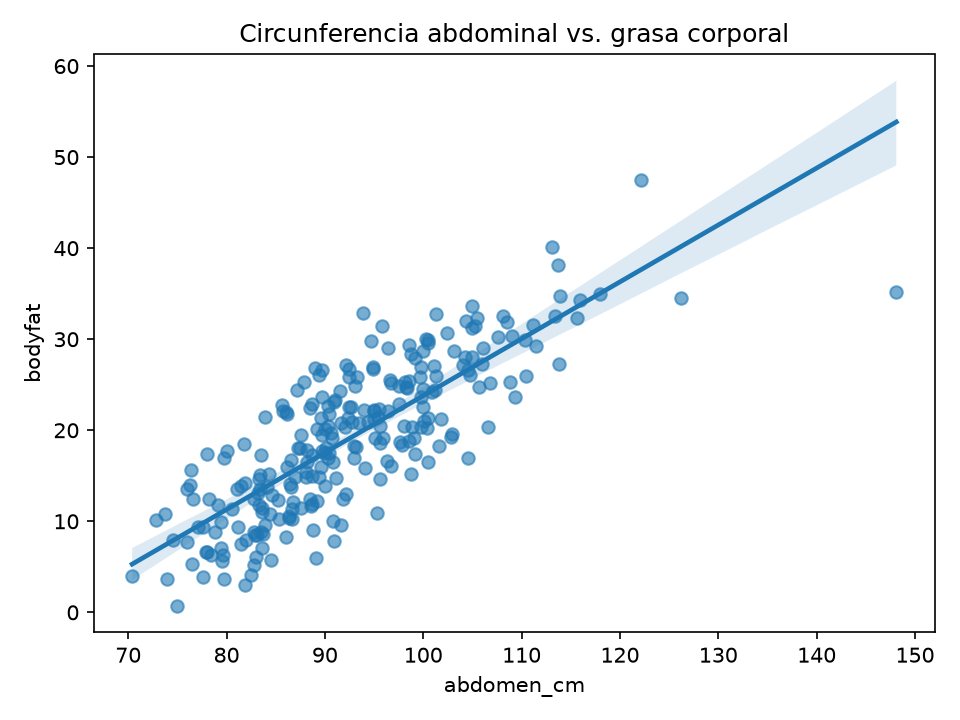
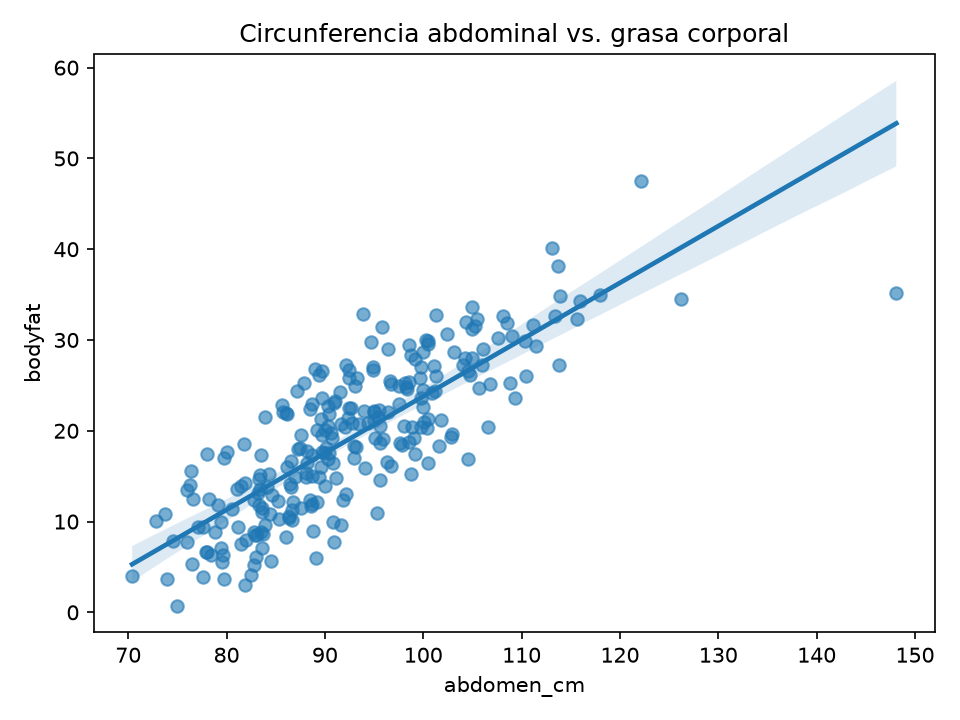
fix(ml): pureza, margen del aviso, tipos laxos y textos probados; correcciones de la verificación independiente
- fixture de entrenar() que prohíbe escribir (figuras, artefacto, joblib)
- margen del 5 % y tipos laxos por campo con valores literales (08, 03)
- 09: validador de fecha sin código inalcanzable; 03: elegibles() también en el notebook y analisis.md sin ambigüedad
- 08: regplot con semilla (la figura era no determinista); CLAUDE.md y SPEC corregidos

diff --git a/backend/features/modelo_08_grasa_corporal/test_modelo.py b/backend/features/modelo_08_grasa_corporal/test_modelo.py
@@ -2,6 +2,7 @@
 import shutil
 
 import joblib
+import matplotlib.pyplot as plt
 import numpy as np
 import pandas as pd
 import pytest
@@ -32,8 +33,16 @@ entrenado = pytest.mark.skipif(not REGISTRO["grasa_corporal"].entrenado,
 
 @pytest.fixture(scope="module")
 def reentrenado():
-    """Todo el entrenamiento (selección, evaluación, experimento de la fuga) en memoria, sin escribir nada."""
-    return entrenar(limpiar(cargar_datos(), imprimir=False), figuras=None, imprimir=False)
+    """Todo el entrenamiento en memoria. Se prohíbe escribir: guardar figuras, el artefacto o cualquier archivo hace fallar la prueba."""
+    def prohibido(*a, **k):
+        raise AssertionError("entrenar() no debe escribir en disco")
+    with pytest.MonkeyPatch.context() as mp:
+        mp.setattr(train, "guardar_figura", prohibido)
+        mp.setattr(train, "guardar_modelo", prohibido)
+        mp.setattr(plt, "savefig", prohibido)
+        mp.setattr(joblib, "dump", prohibido)
+        resultado = entrenar(limpiar(cargar_datos(), imprimir=False), figuras=None, imprimir=False)
+    return resultado  # el parche solo vale durante el entrenamiento: otras pruebas sí escriben (main)
 
 
 @entrenado
@@ -165,6 +174,16 @@ def test_tipos_laxos_y_campos_desconocidos_dan_422(cliente, assert_error, cambio
 
 
 @pytest.mark.parametrize("campo", list(LIMITES))
+def test_cada_campo_rechaza_cadenas_y_booleanos_por_ser_estricto(cliente, assert_error, campo):
+    assert_error(cliente.post(URL, json={**ENTRADA, campo: str(ENTRADA[campo])}), 422, "VALIDACION")
+    assert_error(cliente.post(URL, json={**ENTRADA, campo: True}), 422, "VALIDACION")
+
+
+def test_la_edad_exige_un_entero_aunque_venga_como_45_0(cliente, assert_error):
+    assert_error(cliente.post(URL, json={**ENTRADA, "age": 45.0}), 422, "VALIDACION")
+
+
+@pytest.mark.parametrize("campo", list(LIMITES))
 def test_el_limite_de_cada_campo_es_inclusivo_y_rechaza_lo_que_lo_excede(campo):
     minimo, maximo = LIMITES[campo]
     tipo = int if campo == "age" else float
@@ -222,11 +241,24 @@ def test_una_sola_medida_fuera_del_rango_basta_para_avisar(cliente):
 
 
 @entrenado
+@pytest.mark.parametrize("campo", ["weight_kg", "abdomen_cm", "chest_cm"])
+def test_el_margen_del_aviso_es_el_5_por_ciento_del_rango(cliente, campo):
+    """4 % por encima del máximo de entrenamiento no avisa; 6 % sí (valores literales, no leídos del código)."""
+    minimo, maximo = cargar_artefacto(CARPETA, "grasa_corporal")["rango"][campo]
+    ancho = maximo - minimo
+    assert maximo + 0.06 * ancho < LIMITES[campo][1], "el caso debe ser una entrada válida"
+    sin_aviso = cliente.post(URL, json={**ENTRADA, campo: maximo + 0.04 * ancho}).json()["texto"]
+    con_aviso = cliente.post(URL, json={**ENTRADA, campo: maximo + 0.06 * ancho}).json()["texto"]
+    assert "poco confiable" not in sin_aviso and "Atención: alguna medida está fuera del rango de los datos de entrenamiento" in con_aviso
+
+
+@entrenado
 def test_la_respuesta_redondea_a_un_decimal_y_no_modifica_la_entrada(cliente):
     cuerpo = cliente.post(URL, json=ENTRADA).json()
     assert cuerpo["prediccion"] == round(cuerpo["prediccion"], 1)
     crudo, _ = predecir_con_pipeline(CARPETA, "grasa_corporal", ENTRADA)
     assert cuerpo["prediccion"] == round(max(crudo, 0.0), 1) and str(cuerpo["prediccion"]) in cuerpo["texto"]
+    assert f"el porcentaje de grasa corporal estimado es {cuerpo['prediccion']} por ciento" in cuerpo["texto"]
     assert "hombres adultos" in cuerpo["texto"] and "orientativa" in cuerpo["texto"]
 
 

diff --git a/backend/features/modelo_03_vino/test_modelo.py b/backend/features/modelo_03_vino/test_modelo.py
@@ -2,6 +2,7 @@
 import shutil
 
 import joblib
+import matplotlib.pyplot as plt
 import numpy as np
 import pandas as pd
 import pytest
@@ -30,8 +31,16 @@ entrenado = pytest.mark.skipif(not REGISTRO["vino"].entrenado, reason="ejecutar 
 
 @pytest.fixture(scope="module")
 def reentrenado():
-    """Todo el entrenamiento (selección, evaluación, experimento de duplicados) en memoria, sin escribir nada."""
-    return entrenar(cargar_datos(quitar_duplicados=False), figuras=None, imprimir=False)
+    """Todo el entrenamiento en memoria. Se prohíbe escribir: guardar figuras, el artefacto o cualquier archivo hace fallar la prueba."""
+    def prohibido(*a, **k):
+        raise AssertionError("entrenar() no debe escribir en disco")
+    with pytest.MonkeyPatch.context() as mp:
+        mp.setattr(train, "guardar_figura", prohibido)
+        mp.setattr(train, "guardar_modelo", prohibido)
+        mp.setattr(plt, "savefig", prohibido)
+        mp.setattr(joblib, "dump", prohibido)
+        resultado = entrenar(cargar_datos(quitar_duplicados=False), figuras=None, imprimir=False)
+    return resultado  # el parche solo vale durante el entrenamiento: otras pruebas sí escriben (main)
 
 
 def probabilidades(fila: dict) -> dict:
@@ -357,6 +366,24 @@ def test_el_aviso_de_extrapolacion_se_dispara_con_una_sola_medida_fuera_del_rang
         lejos = min(maximo + (maximo - minimo) * 0.2, LIMITES[campo][1])
         assert "poco confiable" in cliente.post(URL, json={**ENTRADA, campo: lejos}).json()["texto"], campo
         assert "poco confiable" not in cliente.post(URL, json={**ENTRADA, campo: min(max(ENTRADA[campo], minimo), maximo)}).json()["texto"], campo
+
+
+@entrenado
+@pytest.mark.parametrize("campo", ["alcohol", "residual_sugar", "chlorides"])
+def test_el_margen_del_aviso_es_el_5_por_ciento_del_rango(cliente, campo):
+    """4 % por encima del máximo de entrenamiento no avisa; 6 % sí (valores literales, no leídos del código)."""
+    minimo, maximo = cargar_artefacto(CARPETA, "vino")["rango"][campo]
+    ancho = maximo - minimo
+    assert maximo + 0.06 * ancho < LIMITES[campo][1], "el caso debe ser una entrada válida"
+    sin_aviso = cliente.post(URL, json={**ENTRADA, campo: maximo + 0.04 * ancho}).json()["texto"]
+    con_aviso = cliente.post(URL, json={**ENTRADA, campo: maximo + 0.06 * ancho}).json()["texto"]
+    assert "poco confiable" not in sin_aviso and "Atención: alguna medida está fuera del rango de los vinos con que se entrenó el modelo" in con_aviso
+
+
+@pytest.mark.parametrize("campo", list(LIMITES))
+def test_cada_campo_rechaza_cadenas_y_booleanos_por_ser_estricto(cliente, assert_error, campo):
+    assert_error(cliente.post(URL, json={**ENTRADA, campo: str(ENTRADA[campo])}), 422, "VALIDACION")
+    assert_error(cliente.post(URL, json={**ENTRADA, campo: True}), 422, "VALIDACION")
 
 
 @entrenado

diff --git a/backend/features/modelo_09_aguacate/test_modelo.py b/backend/features/modelo_09_aguacate/test_modelo.py
@@ -3,6 +3,7 @@ import shutil
 from datetime import date, timedelta
 
 import joblib
+import matplotlib.pyplot as plt
 import numpy as np
 import pandas as pd
 import pytest
@@ -25,8 +26,16 @@ entrenado = pytest.mark.skipif(not REGISTRO["aguacate"].entrenado, reason="ejecu
 
 @pytest.fixture(scope="module")
 def reentrenado():
-    """Todo el entrenamiento (selección, evaluación, reentrenamiento final) en memoria, sin escribir nada."""
-    return entrenar(cargar_datos(), figuras=None, imprimir=False)
+    """Todo el entrenamiento en memoria. Se prohíbe escribir: guardar figuras, el artefacto o cualquier archivo hace fallar la prueba."""
+    def prohibido(*a, **k):
+        raise AssertionError("entrenar() no debe escribir en disco")
+    with pytest.MonkeyPatch.context() as mp:
+        mp.setattr(train, "guardar_figura", prohibido)
+        mp.setattr(train, "guardar_modelo", prohibido)
+        mp.setattr(plt, "savefig", prohibido)
+        mp.setattr(joblib, "dump", prohibido)
+        resultado = entrenar(cargar_datos(), figuras=None, imprimir=False)
+    return resultado  # el parche solo vale durante el entrenamiento: otras pruebas sí escriben (main)
 
 
 def precio(cliente, **cambios) -> float:
@@ -221,7 +230,10 @@ def test_entender_y_explorar(capsys, tmp_path):
     assert "Semanas: 169  Regiones: 54" in salida and "Rango: 2015-01-04 a 2018-03-25" in salida
     explorar(df, tmp_path, pd.Timestamp("2017-08-06"))
     assert sorted(p.name for p in tmp_path.glob("*.png")) == ["distribucion_objetivo.png", "estacionalidad.png", "regiones_extremas.png", "serie_nacional.png"]
-    assert "Precio medio por tipo: {'conventional': 1.16, 'organic': 1.65}" in capsys.readouterr().out
+    salida = capsys.readouterr().out
+    assert "Precio medio por tipo: {'conventional': 1.16, 'organic': 1.65}" in salida
+    assert ("Precio medio por mes: {1: 1.31, 2: 1.27, 3: 1.33, 4: 1.37, 5: 1.35, 6: 1.41, 7: 1.46, 8: 1.51, 9: 1.57, 10: 1.58, 11: 1.46, 12: 1.33}"
+            in salida)
 
 
 # --- Entrada estricta, valores por defecto y textos ---

diff --git a/backend/features/modelo_03_vino/train.py b/backend/features/modelo_03_vino/train.py
@@ -146,8 +146,8 @@ def evaluar(pipeline: Pipeline, X_test, y_test, figuras: Path | None = None) -> 
 
 
 def entrenar(crudo: pd.DataFrame, figuras: Path | None = None, imprimir: bool = True) -> dict:
-    """Etapas 4 y 5 completas a partir de los datos **crudos** (con duplicados: el experimento los necesita), **sin escribir nada
-    en disco** si `figuras` es None: las pruebas lo reentrenan y exigen reproducir exactamente lo publicado."""
+    """Etapas 4 y 5 completas a partir de `cargar_datos(quitar_duplicados=False)` (con duplicados: el experimento los necesita),
+    **sin escribir nada en disco** si `figuras` es None: las pruebas lo reentrenan y exigen reproducir exactamente lo publicado."""
     log = print if imprimir else (lambda *a, **k: None)
     df = sin_duplicados(crudo)
     X_train, X_test, y_train, y_test = dividir(df)
@@ -177,7 +177,6 @@ def entrenar(crudo: pd.DataFrame, figuras: Path | None = None, imprimir: bool = 
 
     # Experimento: por qué se descartan los duplicados. Con ellos, filas idénticas caen en entrenamiento y
     # prueba y la métrica sube sin que el modelo generalice mejor.
-    crudo = crudo.assign(**{OBJETIVO: agrupar_calidad(crudo["quality"])})
     Xc, yc = crudo[VARIABLES], crudo[OBJETIVO]
     Xc_tr, Xc_te, yc_tr, yc_te = train_test_split(Xc, yc, test_size=0.2, stratify=yc, random_state=SEMILLA)
     inflado = clone(candidatos()[ganador]).fit(Xc_tr, yc_tr)

diff --git a/herramientas/mutaciones_modelo_08_grasa_corporal.py b/herramientas/mutaciones_modelo_08_grasa_corporal.py
@@ -58,4 +58,11 @@ M = [
  (T, "artefacto sin variables", "variables=VARIABLES, rango=r[\"rango\"])", "rango=r[\"rango\"])"),
  (T, "limpiar no informa", 'print(f"Registros imposibles descartados', 'print(f"Descartados'),
  (T, "entender cuenta mal", 'print(f"Filas: {len(df)}  Columnas: {df.shape[1]}")', 'print(f"Filas: {len(df)}  Columnas: {df.shape[0]}")'),
+ # --- añadidas tras la verificación independiente del PR de seguimiento ---
+ (T, "entrenar escribe las figuras", "metricas = evaluar(pipeline, X_test, y_test, figuras)", 'metricas = evaluar(pipeline, X_test, y_test, figuras or CARPETA / "figuras")'),
+ (R, "margen del aviso 0", 'fuera_de_rango(CARPETA, MODELO_INFO["slug"], datos)', 'fuera_de_rango(CARPETA, MODELO_INFO["slug"], datos, margen=0.0)'),
+ (R, "margen del aviso 15 %", 'fuera_de_rango(CARPETA, MODELO_INFO["slug"], datos)', 'fuera_de_rango(CARPETA, MODELO_INFO["slug"], datos, margen=0.15)'),
+ (R, "rodilla con tipos laxos", "knee_cm: float = Field(ge=30,", "knee_cm: float = Field(strict=False, ge=30,"),
+ (R, "texto sin por ciento", "es {valor} por ciento.", "es {valor} unidades."),
+ (R, "aviso sin Atención", "Atención: alguna medida", "Nota: alguna medida"),
 ]

diff --git a/herramientas/mutaciones_modelo_03_vino.py b/herramientas/mutaciones_modelo_03_vino.py
@@ -66,4 +66,10 @@ M = [
  (T, "artefacto sin variables", "variables=VARIABLES, rango=r[\"rango\"])", "rango=r[\"rango\"])"),
  (T, "matriz de confusión sin orden", "metricas_clasificacion(y_test, y_pred, orden=ORDEN)", "metricas_clasificacion(y_test, y_pred)"),
  (T, "entender cuenta mal", "Filas crudas: {n_crudo}  Filas sin duplicados: {len(df)}", "Filas crudas: {len(df)}  Filas sin duplicados: {n_crudo}"),
+ # --- añadidas tras la verificación independiente del PR de seguimiento ---
+ (T, "entrenar escribe las figuras", "metricas = evaluar(pipeline, X_test, y_test, figuras)", 'metricas = evaluar(pipeline, X_test, y_test, figuras or CARPETA / "figuras")'),
+ (R, "margen del aviso 0", 'fuera_de_rango(CARPETA, MODELO_INFO["slug"], datos)', 'fuera_de_rango(CARPETA, MODELO_INFO["slug"], datos, margen=0.0)'),
+ (R, "margen del aviso 15 %", 'fuera_de_rango(CARPETA, MODELO_INFO["slug"], datos)', 'fuera_de_rango(CARPETA, MODELO_INFO["slug"], datos, margen=0.15)'),
+ (R, "aviso sin Atención", "Atención: alguna medida", "Nota: alguna medida"),
+ (R, "alcohol con tipos laxos", "alcohol: float = Field(ge=7.5,", "alcohol: float = Field(strict=False, ge=7.5,"),
 ]

diff --git a/herramientas/notebooks/modelo_03_vino.py b/herramientas/notebooks/modelo_03_vino.py
@@ -175,7 +175,9 @@ for nombre, pipe in candidatos().items():
 comparacion = pd.DataFrame(filas).T.round(3)
 comparacion""")
 c.md("""Random Forest y Gradient Boosting casi no se distinguen (la diferencia es menor que la variación entre pliegues). La regresión logística y la SVM quedan por detrás. La SVM no se optimizó (se usó C = 3 fijo), así que su resultado puede mejorar.""")
-c.code("""ganador = comparacion.drop("mayoritaria (línea base)")["F1 macro cv"].idxmax()
+c.code("""# Solo pueden elegirse candidatos que calculan probabilidades (la API las devuelve): la SVM sin probability no es elegible.
+elegibles = [n for n, pipe in candidatos().items() if "línea base" not in n and hasattr(pipe, "predict_proba")]
+ganador = comparacion.loc[elegibles, "F1 macro cv"].idxmax()
 print("Modelo elegido:", ganador)
 modelo = candidatos()[ganador].fit(X_train, y_train)""")
 

diff --git a/herramientas/mutaciones_modelo_09_aguacate.py b/herramientas/mutaciones_modelo_09_aguacate.py
@@ -60,4 +60,7 @@ M = [
  (T, "artefacto sin marca de reentrenado", "reentrenado_con_todo=True", "reentrenado_con_todo=False"),
  (T, "main sin entender", "    entender(df)\n    train, test, corte", "    train, test, corte"),
  (T, "entender cuenta mal", "Semanas: {df.fecha.nunique()}", "Semanas: {df.region.nunique()}"),
+ # --- añadidas tras la verificación independiente del PR de seguimiento ---
+ (T, "entrenar escribe las figuras", "metricas = evaluar(pipeline, test, figuras)", 'metricas = evaluar(pipeline, test, figuras or CARPETA / "figuras")'),
+ (T, "explorar agrupa por año", "df.groupby(df.fecha.dt.month)[OBJETIVO].mean().round(2).to_dict()", "df.groupby(df.fecha.dt.year)[OBJETIVO].mean().round(2).to_dict()"),
 ]

diff --git a/backend/features/modelo_09_aguacate/router.py b/backend/features/modelo_09_aguacate/router.py
@@ -58,7 +58,7 @@ class Entrada(BaseModel):
         hora. Se admite únicamente una cadena AAAA-MM-DD (o un objeto `date`, para uso interno)."""
         if isinstance(valor, str) and not re.fullmatch(r"\d{4}-\d{2}-\d{2}", valor):
             raise ValueError("la fecha debe tener el formato AAAA-MM-DD")
-        if not isinstance(valor, (str, date)) or isinstance(valor, bool):
+        if not isinstance(valor, (str, date)):
             raise ValueError("la fecha debe ser una cadena AAAA-MM-DD")
         return valor
 

diff --git a/backend/features/modelo_08_grasa_corporal/train.py b/backend/features/modelo_08_grasa_corporal/train.py
@@ -74,7 +74,7 @@ def explorar(df: pd.DataFrame, figuras: Path) -> None:
     plt.title("Correlación entre variables")
     guardar_figura(figuras, "correlacion")
 
-    sns.regplot(data=df, x="abdomen_cm", y=OBJETIVO, scatter_kws={"alpha": 0.6})
+    sns.regplot(data=df, x="abdomen_cm", y=OBJETIVO, scatter_kws={"alpha": 0.6}, seed=SEMILLA)  # semilla: el IC es por bootstrap
     plt.title("Circunferencia abdominal vs. grasa corporal")
     guardar_figura(figuras, "abdomen_vs_grasa")
 

diff --git a/CLAUDE.md b/CLAUDE.md
@@ -21,8 +21,9 @@ El desarrollo de los modelos se pausó por límite de cuota. **Antes de seguir, 
 | #7 | `feature/modelo-07-cirrosis`      | `feature/modelo-06-hepatitis`     | 07 cirrosis       |
 | #8 | `feature/modelo-01-bitcoin`       | `feature/modelo-07-cirrosis`      | 01 bitcoin        |
 | #9 | `feature/modelo-10-sp500`         | `feature/modelo-01-bitcoin`       | 10 sp500          |
+| #10 | `feature/seguimiento-08-09-03`   | `feature/modelo-10-sp500`         | seguimiento 08, 09, 03 |
 
-Fusionar en orden #1 → #9; tras cada fusión GitHub redirige el siguiente a `main` (o cambiar la base a mano). Si se
+Fusionar en orden #1 → #10; tras cada fusión GitHub redirige el siguiente a `main` (o cambiar la base a mano). Si se
 piden cambios en un PR intermedio, hay que rebasar las ramas siguientes.
 
 **Pendiente, en este orden:**
@@ -44,7 +45,7 @@ piden cambios en un PR intermedio, hay que rebasar las ramas siguientes.
 7. Commits separados (core / modelo / docs), subagente verificador **de solo lectura** (darle la lista de mutaciones ya
    probadas para que busque otras), corregir sus hallazgos, PR apilado con la verificación descrita.
 
-**Entorno:** `cd backend && ../venv/bin/pytest -q` (≈ 45 s; con `-m "not reproduce"` es mucho más rápido, pero **no excluir
+**Entorno:** `cd backend && ../venv/bin/pytest -q` (≈ 5 min; con `-m "not reproduce"` es mucho más rápido, pero **no excluir
 `reproduce` en CI**). No hay Colab conectado: los modelos son pequeños y entrenan en segundos localmente.
 
 ## Arquitectura
@@ -191,7 +192,7 @@ De menor a mayor complejidad; se trabajan en este orden y cada uno se marca al t
   en disco, y añadir una prueba marcada `@pytest.mark.reproduce` que lo reejecute en memoria y exija igualdad
   exacta con `metricas.json`, el umbral, el rango y las probabilidades del artefacto. Es lo que atrapa fugas y
   errores dentro del entrenamiento (en el modelo 04 sobrevivían 44 de 74 mutaciones sin ella). Excluir en
-  desarrollo con `pytest -m "not reproduce"`. Lo tienen los modelos 03 a 10.
+  desarrollo con `pytest -m "not reproduce"`. Lo tienen los modelos 01 y 03 a 10 (el 02, de referencia, no).
 - `Entrada` estricta (`ConfigDict(extra="forbid", strict=True)`): un nombre de campo mal escrito o `"12"` por `12` no
   deben aceptarse en silencio. Con una fecha, `strict=True` rechaza hasta "2017-09-15" (pydantic valida el cuerpo en modo Python) y el modo laxo
   acepta enteros como marcas de tiempo: usar `Field(strict=False)` con un `field_validator(mode="before")` que admita solo `AAAA-MM-DD` (modelo 09).
@@ -208,7 +209,7 @@ De menor a mayor complejidad; se trabajan en este orden y cada uno se marca al t
   aviso, límites de `Entrada`, estratificación, imputación, texto) y comprobar que alguna prueba falla. Las
   pruebas que solo leen el artefacto guardado no detectan cambios en `train.py`: añadir también pruebas
   estructurales sobre `candidatos()` / `dividir()`. Así se detectaron 8 pruebas débiles en el modelo 03.
-- Para avisar de extrapolación usar `core.modelos.fuera_de_rango` y guardar `rango=` en el artefacto (los modelos 03 a 10 la usan). La matriz de confusión se pide con `metricas_clasificacion(..., orden=...)`.
+- Para avisar de extrapolación usar `core.modelos.fuera_de_rango` y guardar `rango=` en el artefacto (la usan los modelos 03 a 08; el 09 avisa por fecha y el 01 y el 10 son series sin `rango`). La matriz de confusión se pide con `metricas_clasificacion(..., orden=...)`.
 - **`cross_val_score` con etiquetas de texto**: el scorer `average_precision` falla y devuelve `nan` en silencio.
   Usar `make_scorer(average_precision_score, response_method="predict_proba", pos_label=...)` y siempre
   `error_score="raise"`.

diff --git a/backend/features/modelo_03_vino/analisis.md b/backend/features/modelo_03_vino/analisis.md
@@ -60,7 +60,7 @@ imputación de nulos, escalado (cuando corresponde) y codificación del tipo de 
 |------------------------------|------------------------------------------------------------------------------|
 | Clase mayoritaria (base)     | Referencia mínima: siempre predice "media"                                    |
 | Regresión logística          | Modelo lineal interpretable [Hastie2009], con pesos de clase balanceados      |
-| SVM con núcleo RBF           | Frontera no lineal [Cortes1995]; superó a la regresión múltiple y a las redes neuronales en el estudio original [Cortez2009]. Se usó C = 3 fijo, **sin optimizar** |
+| SVM con núcleo RBF           | Frontera no lineal [Cortes1995]; superó a la regresión múltiple y a las redes neuronales en el estudio original [Cortez2009]. Se usó C = 3 fijo, **sin optimizar**, y se compara pero **no es elegible** (no da probabilidades) |
 | Random Forest                | Ensamble de árboles que captura interacciones sin suponer su forma [Breiman2001] |
 | Gradient Boosting            | Ensamble secuencial de árboles [Friedman2001], versión de histogramas de scikit-learn |
 
@@ -87,9 +87,10 @@ versiona en git.
 | Gradient Boosting       | 0.586 ± 0.016   | 0.598     |
 
 Random Forest y Gradient Boosting no se distinguen con claridad (diferencia de 0.009 con desviaciones de 0.012 a
-0.016), mientras que la regresión logística y la SVM quedan por detrás. La SVM no se optimizó, de modo que su
-resultado puede ser mejorable. Además se entrena sin estimar probabilidades (el parámetro `probability` está deprecado en scikit-learn 1.9),
-por lo que no podría ser el modelo elegido: la API devuelve las probabilidades de cada clase y la selección solo considera candidatos que las calculen.
+0.016), mientras que la regresión logística y la SVM quedan por detrás. La SVM no se optimizó (C = 3 fijo), así que se compara solo como referencia. Además se entrena sin estimar probabilidades (el parámetro
+`probability` está deprecado en scikit-learn 1.9), por lo que **no es elegible**: la API devuelve las probabilidades de cada clase y la
+selección solo considera candidatos que las calculan (`elegibles()` en `train.py`). Con ella habría que calibrar su salida, por ejemplo
+con `CalibratedClassifierCV`, lo que no se hizo.
 
 **Conjunto de prueba (1 066 filas):**
 
@@ -136,7 +137,7 @@ sentido) y rechaza combinaciones imposibles, como un dióxido de azufre libre ma
 
 **Limitaciones.** (1) La puntuación sensorial es subjetiva: es un techo natural de lo que se puede predecir.
 (2) Solo se incluyen vinos verdes portugueses; el modelo no es válido para otras regiones ni variedades.
-(3) La SVM no se optimizó y los hiperparámetros del bosque se fijaron sin búsqueda exhaustiva. (4) El conjunto
+(3) La SVM no se optimizó ni es elegible (ver la sección 5), y los hiperparámetros del bosque se fijaron sin búsqueda exhaustiva. (4) El conjunto
 de prueba es una sola partición de 1 066 filas.
 
 ## Referencias (en `docs_latex/referencias.bib`)
